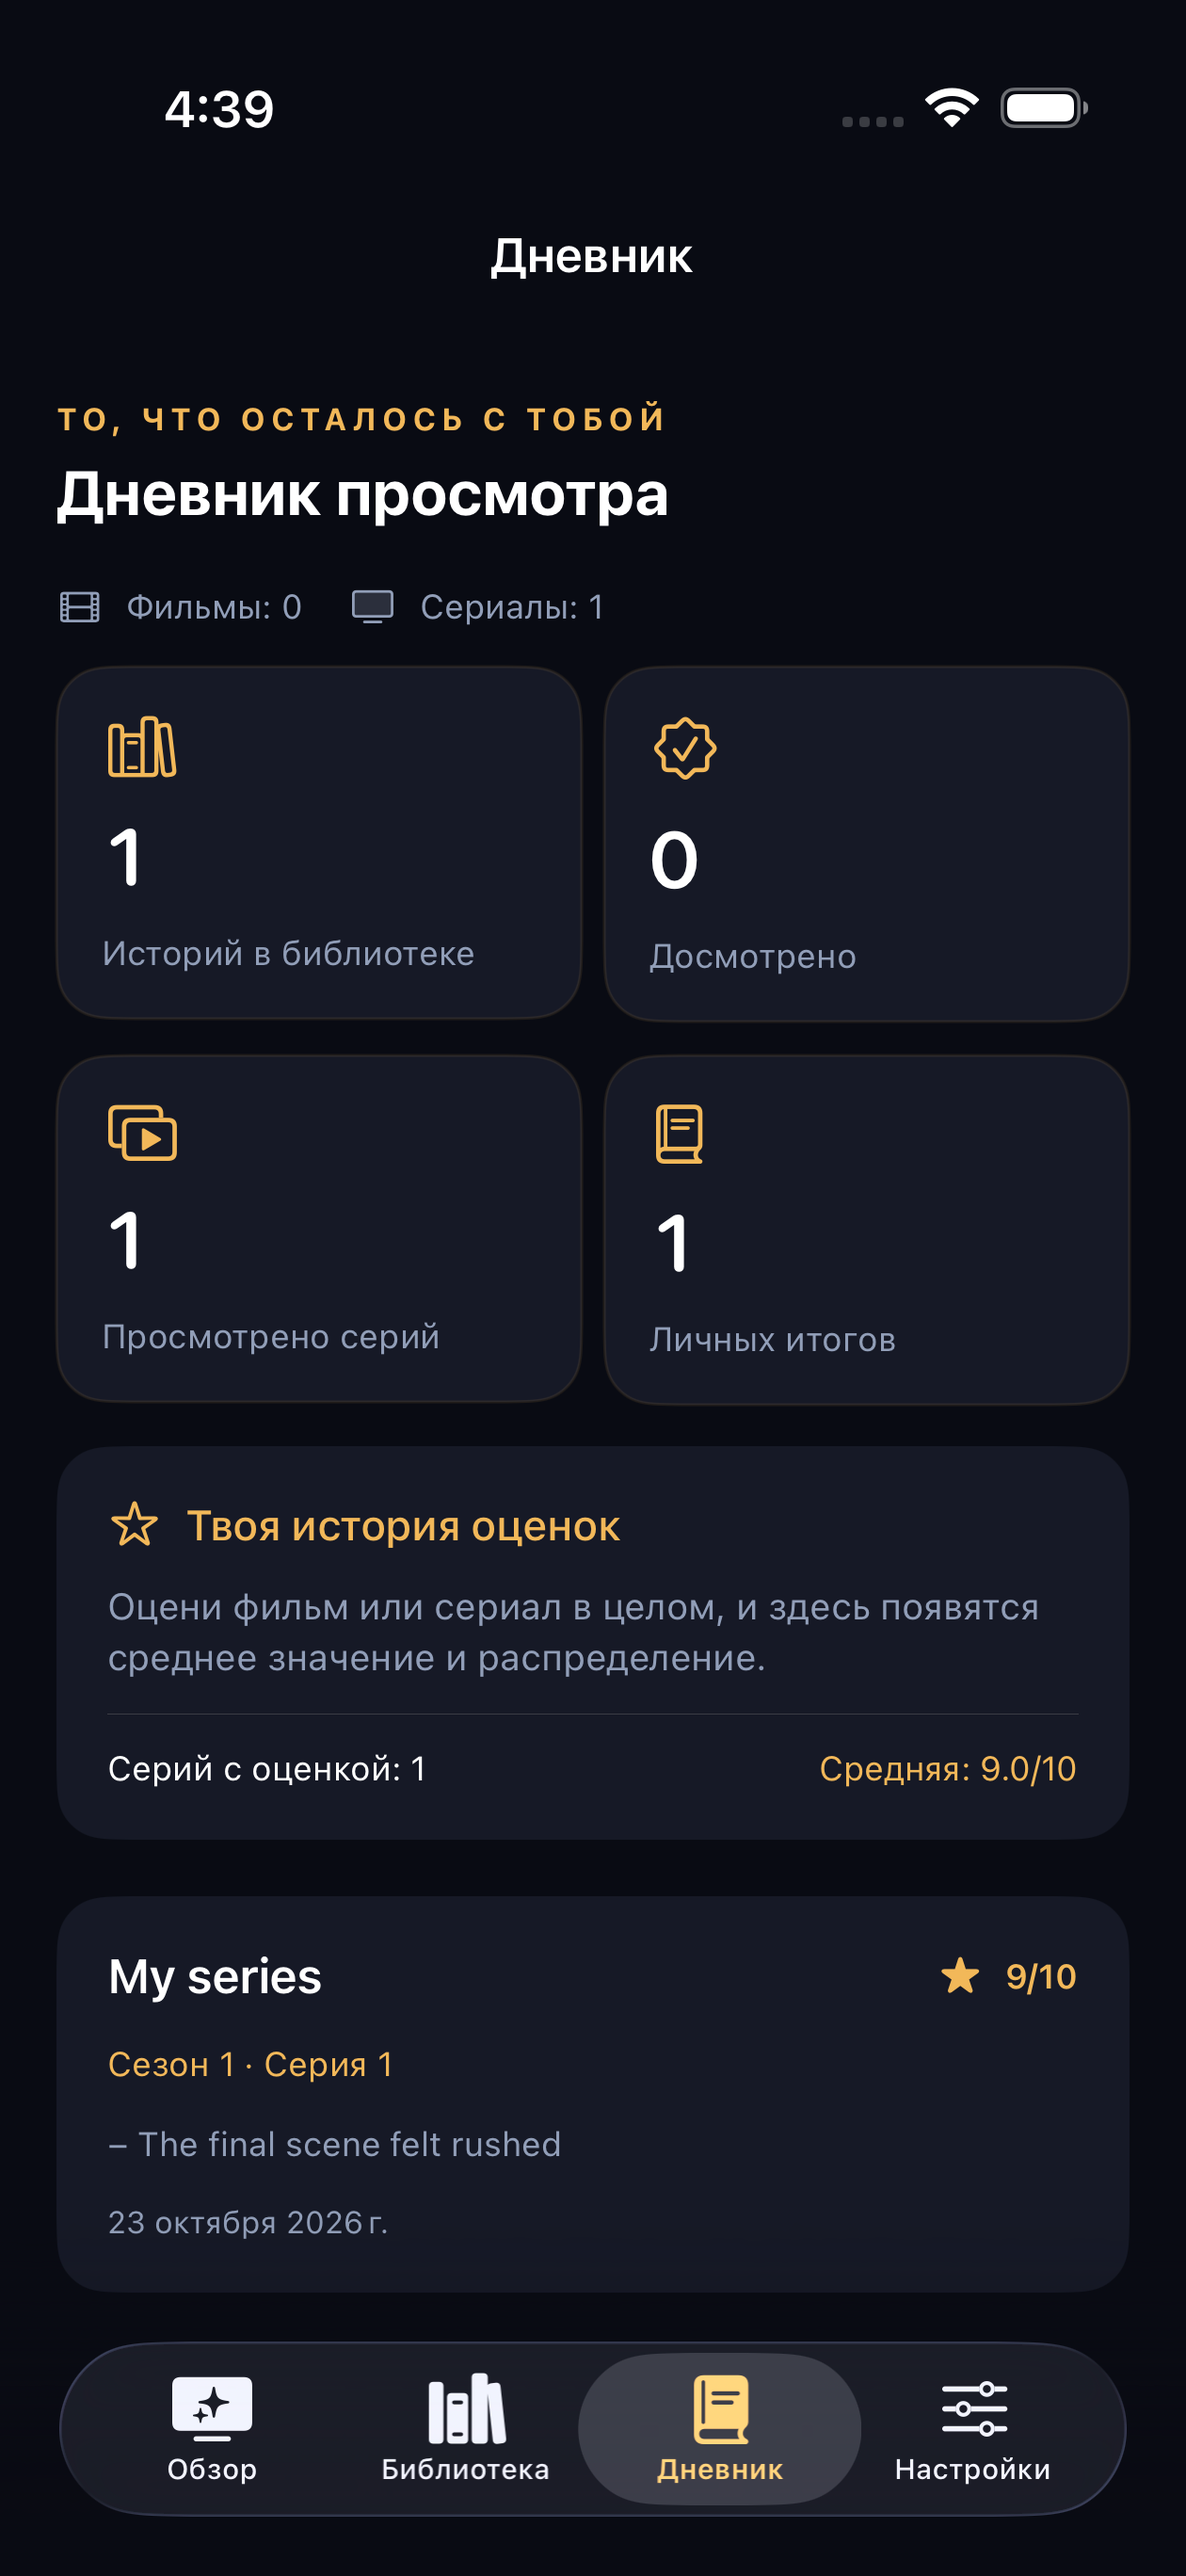
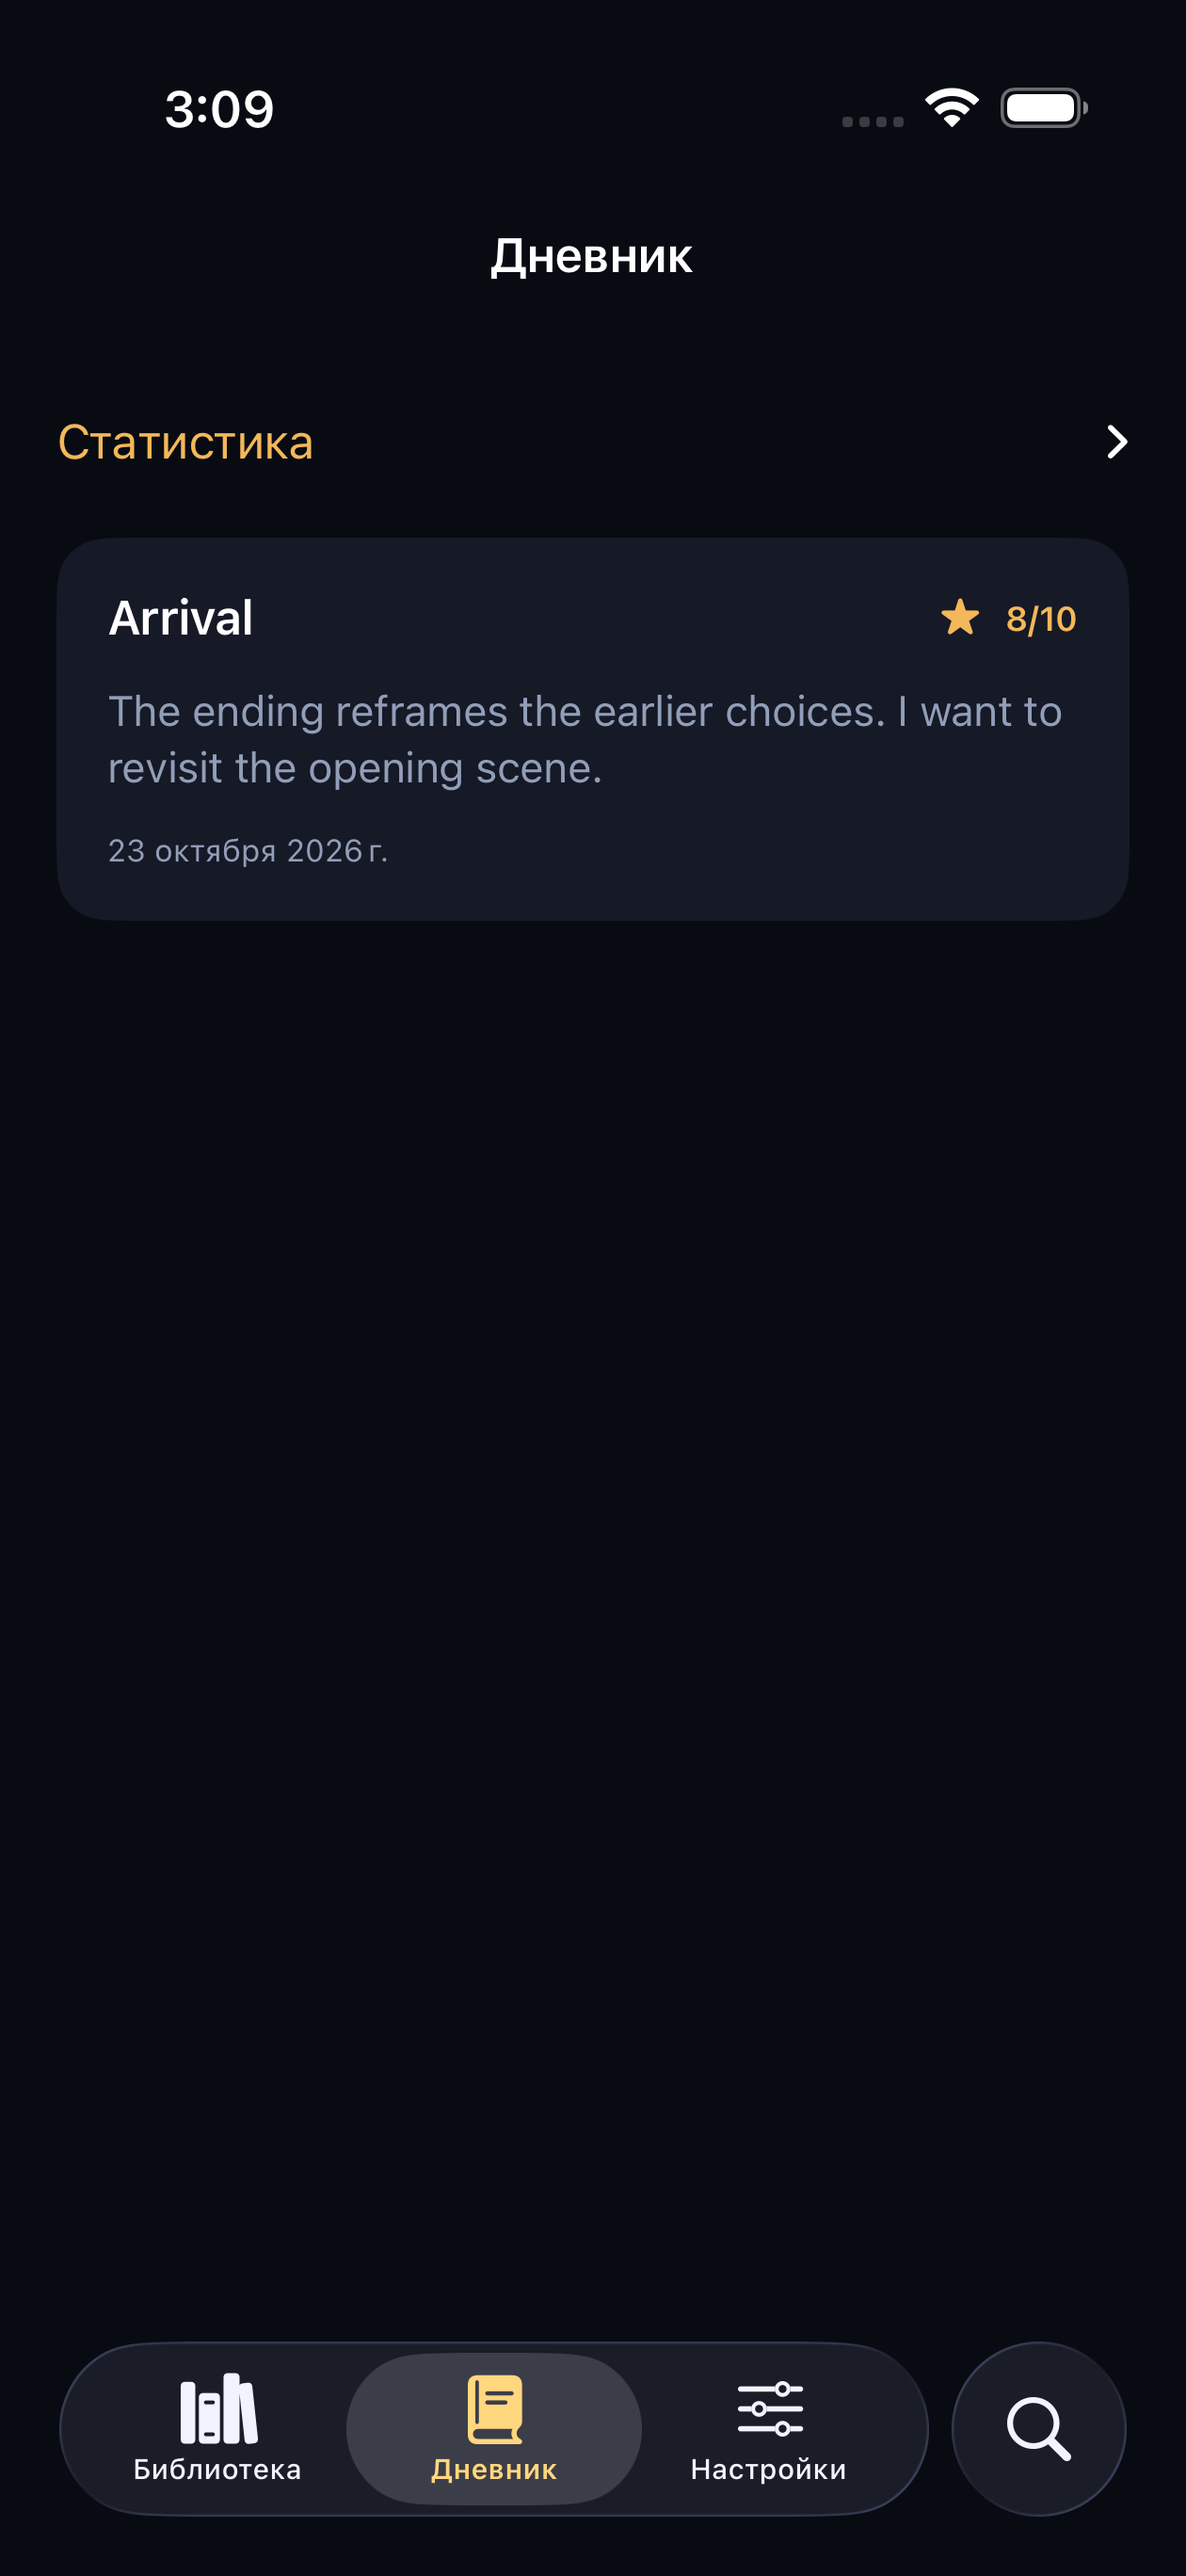
docs: refresh the README with current simulator screenshots

diff --git a/README.md b/README.md
@@ -28,7 +28,7 @@
 <p align="center">
   <img src=".github/assets/screenshots/overview.png" width="230" alt="Поиск FrameTrail">
   <img src=".github/assets/screenshots/library.png" width="230" alt="Библиотека FrameTrail">
-  <img src=".github/assets/screenshots/journal.png" width="230" alt="Дневник с оценкой серии">
+  <img src=".github/assets/screenshots/journal.png" width="230" alt="Дневник с отзывом о фильме">
 </p>
 
 Реальные снимки iPhone Air Simulator из автоматических UI-сценариев с демонстрационными записями. Поиск и генерация в этих сценариях не запускаются.
